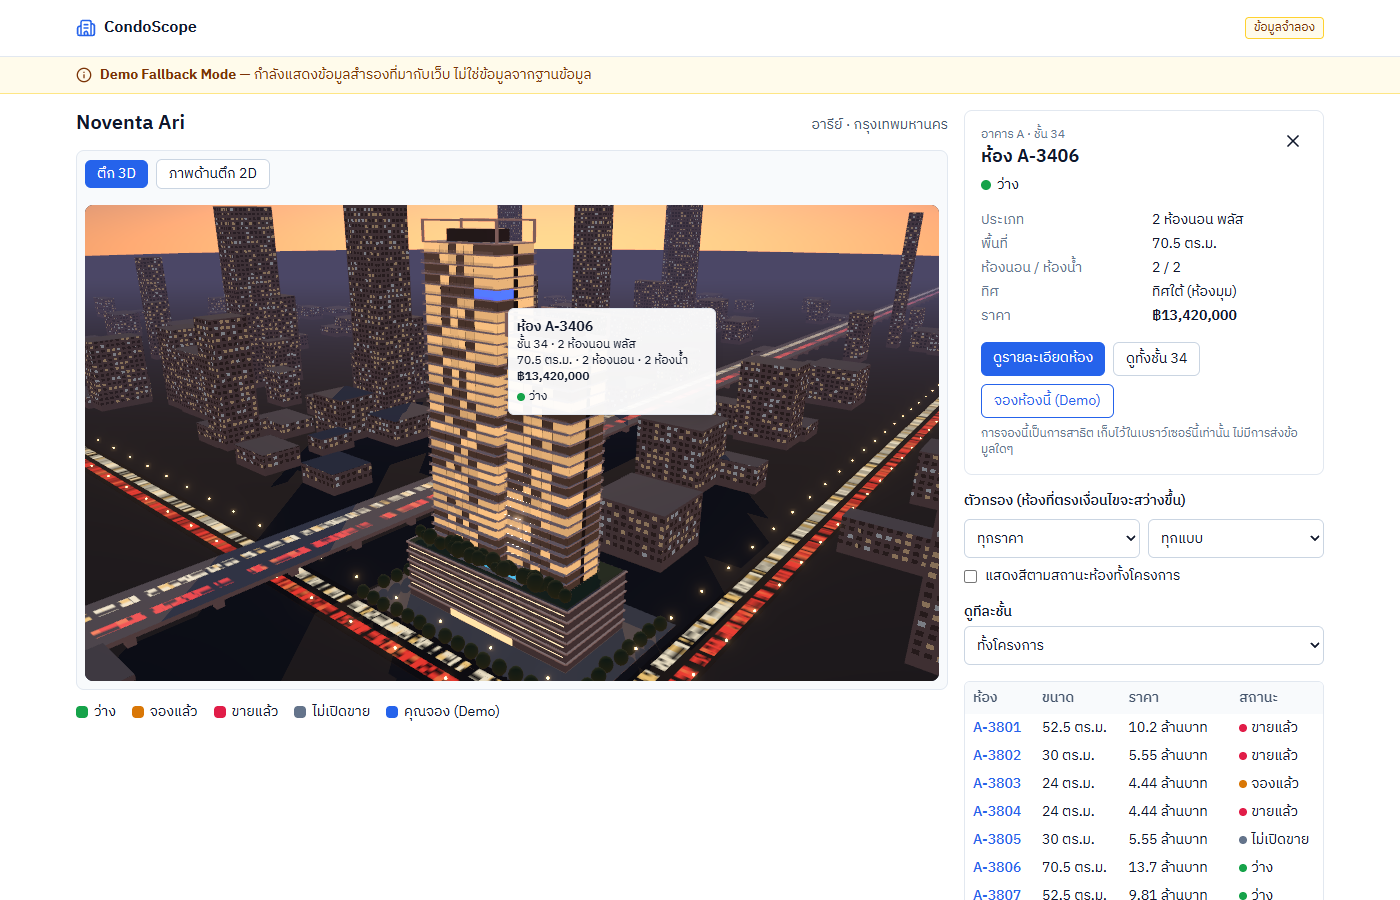
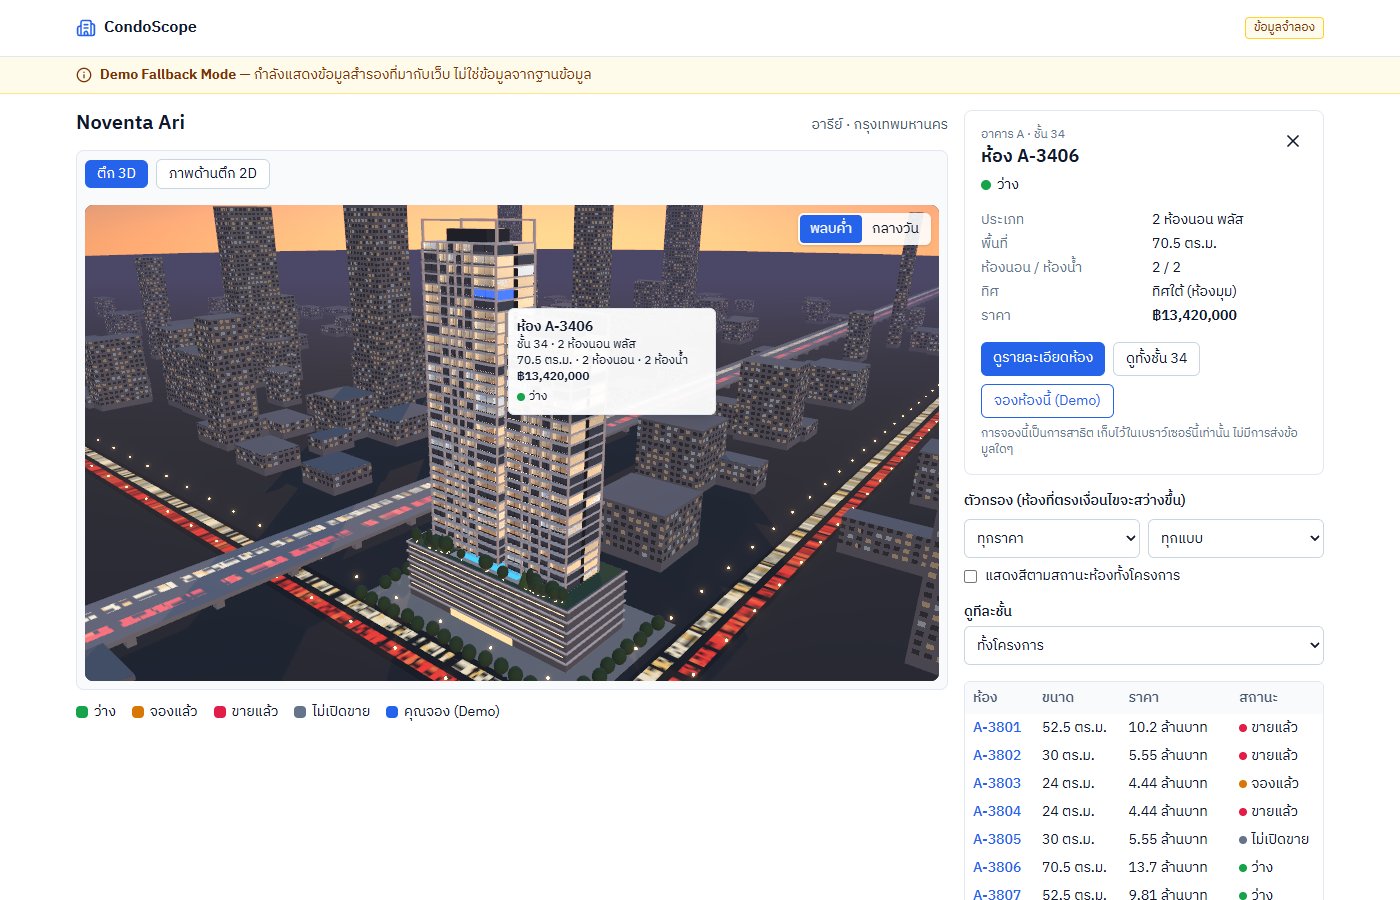
feat(explorer): realism pass — landscape, day/dusk toggle, HDRI environment, SSAO, adaptive quality

Changed region(s): [[0.0614, 0.2178, 0.6757, 0.7778], [0.5529, 0.2178, 0.6757, 0.28]]

diff --git a/apps/web/src/features/explorer/Building3D.tsx b/apps/web/src/features/explorer/Building3D.tsx
@@ -1,14 +1,16 @@
 import { floorBaseY, type Building, type UnitView } from '@condoscope/shared';
-import { Environment, OrbitControls } from '@react-three/drei';
-import { Bloom, EffectComposer } from '@react-three/postprocessing';
+import { Environment, OrbitControls, PerformanceMonitor } from '@react-three/drei';
+import { Bloom, EffectComposer, SSAO } from '@react-three/postprocessing';
 import { Canvas, useFrame, useThree, type ThreeEvent } from '@react-three/fiber';
 import { useEffect, useMemo, useRef, useState } from 'react';
 import { ACESFilmicToneMapping, InstancedMesh, Raycaster, Vector2, Vector3 } from 'three';
 import type { OrbitControls as OrbitControlsImpl } from 'three-stdlib';
 import City from './scene/City';
 import { homeView, projectBounds, towerMatrix, unitWorldCenter, type Bounds, type Vec3 } from './scene/layout';
+import Landscape from './scene/Landscape';
 import Site from './scene/Site';
 import Sky from './scene/Sky';
+import { LOOK, uNight, type TimeOfDay } from './scene/time';
 import Towers from './scene/Towers';
 import UnitTooltip from './UnitTooltip';
 import type { CutFloor, ExplorerApi } from './useExplorer';
@@ -23,6 +25,9 @@ export default function Building3D({ x, onUnavailable }: { x: ExplorerApi; onUna
   const wrap = useRef<HTMLDivElement>(null);
   const [tipAt, setTipAt] = useState<{ left: number; top: number } | null>(null);
   const coarse = useMemo(() => matchMedia('(pointer: coarse)').matches, []);
+  const [low, setLow] = useState(coarse); // phones start in low quality; desktops drop to it when FPS stays < 40
+  const [time, setTime] = useState<TimeOfDay>('dusk');
+  useEffect(() => { uNight.value = time === 'dusk' ? 1 : 0; }, [time]);
   const hovered = x.unit(x.hoveredId);
 
   const onHover = (u: UnitView | null, e?: ThreeEvent<PointerEvent>) => {
@@ -34,38 +39,54 @@ export default function Building3D({ x, onUnavailable }: { x: ExplorerApi; onUna
   useEffect(() => () => { document.body.style.cursor = ''; }, []);
 
   return (
-    <div ref={wrap} className="relative h-full w-full overflow-hidden rounded-lg bg-[#16223d]">
+    <div ref={wrap} className="relative h-full w-full overflow-hidden rounded-lg" style={{ background: LOOK[time].bg }}>
       <Canvas
-        shadows
-        dpr={[1, coarse ? 1.5 : 2]}
+        shadows="percentage"
+        dpr={[1, low ? 1.25 : 2]}
         camera={{ fov: 38, near: 1, far: 5000, position: home.position }}
         gl={{ antialias: true, toneMapping: ACESFilmicToneMapping, powerPreference: 'high-performance' }}
         onCreated={({ gl }) => gl.domElement.addEventListener('webglcontextlost', (e) => { e.preventDefault(); onUnavailable(); })}
         onPointerMissed={() => x.hover(null)}
         aria-label="ตึก 3 มิติ ลากเพื่อหมุน เลื่อนล้อเพื่อซูม"
       >
-        <Scene x={x} bounds={bounds} home={home} onHover={onHover} />
+        <Scene x={x} bounds={bounds} home={home} onHover={onHover} time={time} low={low} onSlow={() => setLow(true)} />
       </Canvas>
+      <div className="absolute right-2 top-2 flex rounded-md bg-white/90 p-0.5 text-sm shadow" role="group" aria-label="ช่วงเวลา">
+        {(['dusk', 'day'] as const).map((t) => (
+          <button key={t} type="button" aria-pressed={time === t} onClick={() => setTime(t)} className={`rounded px-2.5 py-1 ${time === t ? 'bg-accent text-white' : 'hover:bg-slate-100'}`}>
+            {t === 'dusk' ? 'พลบค่ำ' : 'กลางวัน'}
+          </button>
+        ))}
+      </div>
       {hovered && tipAt && <UnitTooltip unit={hovered} mine={x.mine} left={tipAt.left} top={tipAt.top} />}
     </div>
   );
 }
 
-function Scene({ x, bounds, home, onHover }: { x: ExplorerApi; bounds: Bounds; home: { position: Vec3; target: Vec3 }; onHover: (u: UnitView | null, e?: ThreeEvent<PointerEvent>) => void }) {
+interface SceneProps {
+  x: ExplorerApi; bounds: Bounds; home: { position: Vec3; target: Vec3 };
+  onHover: (u: UnitView | null, e?: ThreeEvent<PointerEvent>) => void;
+  time: TimeOfDay; low: boolean; onSlow(): void;
+}
+
+function Scene({ x, bounds, home, onHover, time, low, onSlow }: SceneProps) {
   const unitsRef = useRef<InstancedMesh>(null);
   const seed = x.buildings[0].project_id * 7919;
+  const look = LOOK[time];
   return (
     <>
-      <fog attach="fog" args={['#4b4766', 350, 1500]} />
-      <Sky />
-      <Environment resolution={128}><Sky radius={400} /></Environment>
-      <hemisphereLight args={['#9fb3d9', '#202020', 0.55]} />
+      <PerformanceMonitor ms={250} iterations={8} bounds={() => [40, 1000]} onDecline={onSlow} />
+      <fog attach="fog" args={[look.fog, time === 'day' ? 600 : 350, time === 'day' ? 2600 : 1500]} />
+      <Sky time={time} />
+      <Environment files={import.meta.env.BASE_URL + look.env} environmentIntensity={look.envIntensity} />
+      <hemisphereLight args={look.hemi} />
       <directionalLight
+        key={low ? 'low' : 'high'}
         castShadow
-        position={[-220, 160, -260]}
-        intensity={1.1}
-        color="#ffc999"
-        shadow-mapSize={[2048, 2048]}
+        position={look.sun.position}
+        intensity={look.sun.intensity}
+        color={look.sun.color}
+        shadow-mapSize={low ? [1024, 1024] : [2048, 2048]}
         shadow-camera-left={-120}
         shadow-camera-right={120}
         shadow-camera-top={120}
@@ -73,15 +94,24 @@ function Scene({ x, bounds, home, onHover }: { x: ExplorerApi; bounds: Bounds; h
         shadow-camera-far={800}
         shadow-bias={-0.0004}
         shadow-normalBias={0.04}
+        shadow-radius={3}
       />
       <Site r={bounds} seed={seed} />
-      <City r={bounds} seed={seed} />
+      <Landscape r={bounds} seed={seed} time={time} />
+      <City r={bounds} seed={seed} time={time} />
       <Towers x={x} unitsRef={unitsRef} onHover={onHover} onPick={(u) => x.select(u.id)} />
       <CameraRig x={x} home={home} bounds={bounds} />
       <Probe x={x} unitsRef={unitsRef} />
-      <EffectComposer multisampling={4}>
-        <Bloom intensity={0.7} luminanceThreshold={0.85} luminanceSmoothing={0.3} mipmapBlur />
-      </EffectComposer>
+      {low ? (
+        <EffectComposer key="low" multisampling={0}>
+          <Bloom intensity={time === 'dusk' ? 0.7 : 0.25} luminanceThreshold={0.85} luminanceSmoothing={0.3} mipmapBlur />
+        </EffectComposer>
+      ) : (
+        <EffectComposer key="high" multisampling={4} enableNormalPass>
+          <SSAO samples={16} radius={0.12} intensity={18} luminanceInfluence={0.6} worldDistanceThreshold={60} worldDistanceFalloff={20} worldProximityThreshold={1} worldProximityFalloff={0.5} />
+          <Bloom intensity={time === 'dusk' ? 0.7 : 0.25} luminanceThreshold={0.85} luminanceSmoothing={0.3} mipmapBlur />
+        </EffectComposer>
+      )}
     </>
   );
 }

diff --git a/apps/web/src/features/explorer/scene/City.tsx b/apps/web/src/features/explorer/scene/City.tsx
@@ -6,6 +6,7 @@ import {
   Quaternion, RepeatWrapping, SphereGeometry, SRGBColorSpace, Vector3,
 } from 'three';
 import type { Bounds } from './layout';
+import { uNight, type TimeOfDay } from './time';
 
 const BOX = new BoxGeometry(1, 1, 1);
 const Q = new Quaternion();
@@ -14,11 +15,12 @@ const mat = (x: number, y: number, z: number, sx: number, sy: number, sz: number
 const cityMat = new MeshStandardMaterial({ color: 0x6f757d, roughness: 0.85 });
 // window grid on every wall, some windows lit (own shader patch)
 cityMat.onBeforeCompile = (s) => {
+  s.uniforms.uNight = uNight;
   s.vertexShader = s.vertexShader
     .replace('#include <common>', '#include <common>\nvarying vec3 vCityP;\nvarying vec3 vCityN;')
     .replace('#include <begin_vertex>', '#include <begin_vertex>\nmat4 cityM = modelMatrix * instanceMatrix; vCityP = (cityM * vec4(transformed, 1.0)).xyz; vCityN = normalize(mat3(cityM) * normal);');
   s.fragmentShader = s.fragmentShader
-    .replace('#include <common>', '#include <common>\nvarying vec3 vCityP;\nvarying vec3 vCityN;\nfloat cityWin; float cityRnd;')
+    .replace('#include <common>', '#include <common>\nuniform float uNight;\nvarying vec3 vCityP;\nvarying vec3 vCityN;\nfloat cityWin; float cityRnd;')
     .replace('#include <color_fragment>', `#include <color_fragment>
       float wall = 1.0 - step(0.5, abs(vCityN.y));
       float along = abs(vCityN.x) > 0.5 ? vCityP.z : vCityP.x;
@@ -27,11 +29,12 @@ cityMat.onBeforeCompile = (s) => {
       cityRnd = fract(sin(dot(cell + floor(vCityP.xz / 40.0), vec2(12.9898, 78.233))) * 43758.5453);
       diffuseColor.rgb = mix(diffuseColor.rgb, diffuseColor.rgb * 0.3, cityWin);`)
     .replace('#include <emissivemap_fragment>', `#include <emissivemap_fragment>
-      totalEmissiveRadiance += mix(vec3(1.0, 0.68, 0.38), vec3(0.8, 0.88, 1.0), step(0.86, cityRnd)) * step(0.6, cityRnd) * cityWin * 0.22;`);
+      totalEmissiveRadiance += mix(vec3(1.0, 0.68, 0.38), vec3(0.8, 0.88, 1.0), step(0.86, cityRnd)) * step(0.6, cityRnd) * cityWin * 0.22 * (0.1 + 0.9 * uNight);`);
 };
 const roadMat = new MeshStandardMaterial({ color: 0x1c1f23, roughness: 0.95 });
 const exMat = new MeshStandardMaterial({ color: 0x8d8f92, roughness: 0.85 });
-const lampMat = new MeshBasicMaterial({ color: new Color(4, 2.5, 1.1) });
+const lampDusk = new MeshBasicMaterial({ color: new Color(4, 2.5, 1.1) });
+const lampDay = new MeshBasicMaterial({ color: new Color(0.55, 0.55, 0.5) });
 const LAMP = new SphereGeometry(0.45, 8, 6);
 
 function streakTexture(rng: () => number, a: string, b: string) {
@@ -50,7 +53,7 @@ function streakTexture(rng: () => number, a: string, b: string) {
 }
 
 /** Surrounding city, roads with moving car lights and an elevated expressway, laid out around the project bounds. */
-export default function City({ r, seed }: { r: Bounds; seed: number }) {
+export default function City({ r, seed, time }: { r: Bounds; seed: number; time: TimeOfDay }) {
   const cx = (r.minX + r.maxX) / 2;
   const roadZ = r.maxZ + 22;
   const roadX = r.maxX + 24;
@@ -91,7 +94,9 @@ export default function City({ r, seed }: { r: Bounds; seed: number }) {
   }, [seed, cx, r, roadZ, roadX, exX]);
 
   const strip = useMemo(() => new PlaneGeometry(5, 3000).rotateX(-Math.PI / 2), []);
-  useFrame((_, dt) => { for (const s of streaks) s.mat.map!.offset.y += s.speed * dt * 10; });
+  useFrame((_, dt) => {
+    for (const s of streaks) { s.mat.map!.offset.y += s.speed * dt * 10; s.mat.opacity = 0.3 + 0.7 * uNight.value; }
+  });
 
   const fill = (list: Matrix4[]) => (m: import('three').InstancedMesh | null) => {
     if (!m) return;
@@ -107,7 +112,7 @@ export default function City({ r, seed }: { r: Bounds; seed: number }) {
       <mesh geometry={BOX} material={roadMat} position={[roadX, 0.11, 0]} scale={[16, 0.22, 3000]} receiveShadow />
       <mesh geometry={BOX} material={exMat} position={[exX, exY, 0]} scale={[28, 1.6, 3000]} castShadow receiveShadow />
       <instancedMesh args={[BOX, exMat, 100]} ref={fill(Array.from({ length: 100 }, (_, i) => mat(exX, exY / 2, -1500 + i * 30, 3, exY, 3)))} />
-      <instancedMesh args={[LAMP, lampMat, lamps.length]} ref={fill(lamps)} />
+      <instancedMesh args={[LAMP, time === 'dusk' ? lampDusk : lampDay, lamps.length]} ref={fill(lamps)} />
       {streaks.map((s, i) => (
         <mesh key={i} geometry={strip} material={s.mat} position={[s.x, s.y, s.z]} rotation={[0, s.alongZ ? 0 : Math.PI / 2, 0]} />
       ))}

diff --git a/apps/web/src/features/explorer/scene/Sky.tsx b/apps/web/src/features/explorer/scene/Sky.tsx
@@ -1,4 +1,6 @@
+import { useLayoutEffect } from 'react';
 import { BackSide, Color, ShaderMaterial, Vector3 } from 'three';
+import { LOOK, type TimeOfDay } from './time';
 
 /** Dusk gradient with a warm glow around the sun direction. */
 export const skyMaterial = new ShaderMaterial({
@@ -25,7 +27,12 @@ export const skyMaterial = new ShaderMaterial({
     }`,
 });
 
-export default function Sky({ radius = 2400 }: { radius?: number }) {
+export default function Sky({ radius = 2400, time }: { radius?: number; time: TimeOfDay }) {
+  useLayoutEffect(() => {
+    const s = LOOK[time].sky;
+    const u = skyMaterial.uniforms;
+    u.top.value.copy(s.top); u.mid.value.copy(s.mid); u.horizon.value.copy(s.horizon); u.glow.value.copy(s.glow);
+  }, [time]);
   return (
     <mesh material={skyMaterial}>
       <sphereGeometry args={[radius, 32, 16]} />

diff --git a/apps/web/src/features/explorer/scene/Site.tsx b/apps/web/src/features/explorer/scene/Site.tsx
@@ -31,11 +31,6 @@ export default function Site({ r, seed }: { r: Bounds; seed: number }) {
   const trees = useMemo(() => {
     const rng = mulberry32(seed);
     const list: Matrix4[] = [];
-    // roof garden along the south edge (towers sit behind it)
-    for (let i = 0; i < Math.round(w / 1.6); i++) {
-      const s = 0.8 + rng() * 0.8;
-      list.push(mat(r.minX + 2 + rng() * (w - 4), H + 0.3 + 1.6 * s + 1.2, r.maxZ - 1.5 - rng() * 3, s, s * 1.15, s));
-    }
     // street trees around the plaza
     for (let x = r.minX - 10; x <= r.maxX + 10; x += 6) list.push(mat(x, 0.2 + 3, r.maxZ + 13 + rng() * 2, 1.3, 1.5, 1.3));
     for (let z = r.minZ - 6; z <= r.maxZ + 8; z += 6) {

diff --git a/apps/web/src/features/explorer/scene/time.ts b/apps/web/src/features/explorer/scene/time.ts
@@ -17,7 +17,7 @@ export const LOOK: Record<TimeOfDay, {
   },
   day: {
     sky: { top: new Color('#3d7fd6'), mid: new Color('#8fbbe8'), horizon: new Color('#dfeaf3'), glow: new Color('#fff6e0') },
-    fog: '#c9d8e6', hemi: ['#ffffff', '#606060', 0.8], sun: { color: '#fff4e5', intensity: 2.4, position: [180, 260, 140] },
-    env: 'hdri/day.hdr', envIntensity: 0.9, bg: '#8fbbe8',
+    fog: '#c9d8e6', hemi: ['#dfe9f5', '#4a4a4a', 0.35], sun: { color: '#fff4e5', intensity: 1.3, position: [180, 260, 140] },
+    env: 'hdri/day.hdr', envIntensity: 0.45, bg: '#8fbbe8',
   },
 };
